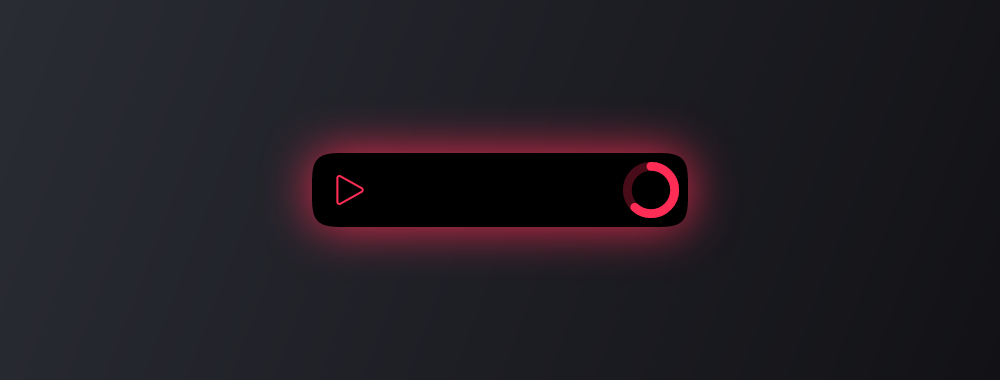
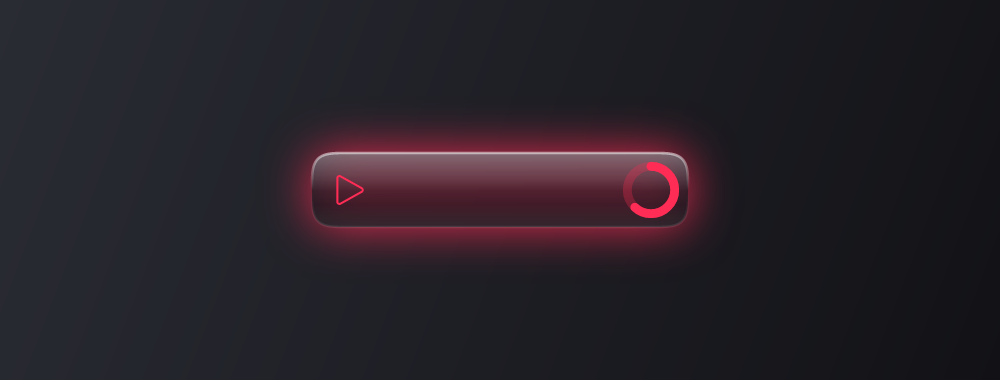
Add a Liquid Glass material to the island
Translucent smoked panel with a specular top sheen, a bottom reflection and an
edge rim-light (bright top, faint bottom), on top of the activity glow. Toggle via
Glass.Enabled in config. Refresh screenshots and the showcase to the glass look.

Changed region(s): [[0.31, 0.3763, 0.713, 0.6079]]

diff --git a/src/Islet/Rendering/GlassMaterial.cs b/src/Islet/Rendering/GlassMaterial.cs
@@ -1,0 +1,64 @@
+using SkiaSharp;
+
+namespace Islet.Rendering;
+
+/// <summary>
+/// "Liquid Glass" island body: a translucent smoked panel (lets the desktop/content show through),
+/// a specular sheen along the top, a faint reflection at the bottom, and an edge rim-light that is
+/// bright at the top and faint below. Grounded in Apple's regular-glass look while staying legible.
+/// </summary>
+internal static class GlassMaterial
+{
+    public static void Draw(SKCanvas canvas, SKPath body, SKRect bounds, RenderModel m)
+    {
+        float scale = m.Scale;
+        float top = bounds.Top, bot = bounds.Bottom;
+        var tintTop = new SKColor(m.GlassTintTop);
+        var tintBottom = new SKColor(m.GlassTintBottom);
+
+        // 1) Translucent tinted fill (vertical gradient top -> bottom).
+        using (var fill = new SKPaint
+        {
+            IsAntialias = true,
+            Shader = SKShader.CreateLinearGradient(new SKPoint(0, top), new SKPoint(0, bot),
+                new[] { tintTop, tintBottom }, null, SKShaderTileMode.Clamp),
+        })
+            canvas.DrawPath(body, fill);
+
+        // Inner sheen + reflection, clipped to the shape. Rect is widened so the Minimal blob is covered.
+        int save = canvas.Save();
+        canvas.ClipPath(body, antialias: true);
+        var wide = new SKRect(bounds.Left - 180, top, bounds.Right + 180, bot);
+
+        byte sheenA = (byte)(96 * m.GlassHighlight);
+        float sheenBottom = top + bounds.Height * 0.52f;
+        using (var sheen = new SKPaint
+        {
+            Shader = SKShader.CreateLinearGradient(new SKPoint(0, top), new SKPoint(0, sheenBottom),
+                new[] { SKColors.White.WithAlpha(sheenA), SKColors.White.WithAlpha(0) }, null, SKShaderTileMode.Clamp),
+        })
+            canvas.DrawRect(wide, sheen);
+
+        byte reflA = (byte)(30 * m.GlassHighlight);
+        using (var refl = new SKPaint
+        {
+            Shader = SKShader.CreateLinearGradient(new SKPoint(0, bot - bounds.Height * 0.32f), new SKPoint(0, bot),
+                new[] { SKColors.White.WithAlpha(0), SKColors.White.WithAlpha(reflA) }, null, SKShaderTileMode.Clamp),
+        })
+            canvas.DrawRect(wide, refl);
+        canvas.RestoreToCount(save);
+
+        // 2) Edge rim light: bright at the top, invisible mid, faint reflected at the bottom.
+        byte rimTop = (byte)(150 * m.GlassRim), rimBot = (byte)(28 * m.GlassRim);
+        using (var rim = new SKPaint
+        {
+            IsAntialias = true,
+            Style = SKPaintStyle.Stroke,
+            StrokeWidth = 1.3f * scale,
+            Shader = SKShader.CreateLinearGradient(new SKPoint(0, top), new SKPoint(0, bot),
+                new[] { SKColors.White.WithAlpha(rimTop), SKColors.White.WithAlpha(0), SKColors.White.WithAlpha(rimBot) },
+                new[] { 0f, 0.5f, 1f }, SKShaderTileMode.Clamp),
+        })
+            canvas.DrawPath(body, rim);
+    }
+}

diff --git a/src/Islet.Core/Config/IsletConfig.cs b/src/Islet.Core/Config/IsletConfig.cs
@@ -14,6 +14,7 @@ public sealed class IsletConfig
     public TimingConfig Timings { get; set; } = new();
     public BehaviorConfig Behavior { get; set; } = new();
     public ColorConfig Colors { get; set; } = new();
+    public GlassConfig Glass { get; set; } = new();
 
     /// <summary>Base (content-independent) target metrics for a mode.</summary>
     public IslandMetrics BaseMetrics(IslandMode mode) => mode switch
@@ -85,4 +86,18 @@ public sealed class ColorConfig
     public string GlowDefault { get; set; } = "#5AC8FA";  // soft activity glow
     public string AskGlow { get; set; } = "#8E8CFF";      // Ask-mode border/caret glow
     public string Accent { get; set; } = "#FFFFFF";
+}
+
+/// <summary>
+/// "Liquid Glass" material for the island: a translucent smoked panel (content/desktop shows through),
+/// a specular top sheen, and an edge rim light — brighter at the top, faint reflection at the bottom.
+/// Colors are 8-digit AARRGGBB. Disable to fall back to the solid-black pill.
+/// </summary>
+public sealed class GlassConfig
+{
+    public bool Enabled { get; set; } = true;
+    public string TintTop { get; set; } = "#962E3038";    // translucent, lighter top
+    public string TintBottom { get; set; } = "#D20C0D12";  // more opaque, darker bottom (legibility + depth)
+    public double Highlight { get; set; } = 0.8;           // top specular sheen strength 0..1
+    public double Rim { get; set; } = 0.9;                 // edge rim-light strength 0..1
 }

diff --git a/src/Islet/Rendering/IslandRenderer.cs b/src/Islet/Rendering/IslandRenderer.cs
@@ -34,14 +34,21 @@ internal sealed class IslandRenderer
             canvas.DrawPath(body, glowPaint);
         }
 
-        // --- Black body ---
-        using (var bodyPaint = new SKPaint { IsAntialias = true, Color = new SKColor(0, 0, 0, 255), Style = SKPaintStyle.Fill })
+        // --- Island body: Liquid Glass material, or solid black if disabled ---
+        var bounds = new SKRect(cx - w / 2f, cy - h / 2f, cx + w / 2f, cy + h / 2f);
+        if (m.GlassEnabled)
+        {
+            GlassMaterial.Draw(canvas, body, bounds, m);
+        }
+        else
+        {
+            using var bodyPaint = new SKPaint { IsAntialias = true, Color = new SKColor(0, 0, 0, 255), Style = SKPaintStyle.Fill };
             canvas.DrawPath(body, bodyPaint);
+        }
 
         // --- Content, clipped to the island shape ---
         int save = canvas.Save();
         canvas.ClipPath(body, SKClipOperation.Intersect, antialias: true);
-        var bounds = new SKRect(cx - w / 2f, cy - h / 2f, cx + w / 2f, cy + h / 2f);
         ContentRenderer.Draw(canvas, m, bounds);
         canvas.RestoreToCount(save);
 

diff --git a/src/Islet/IslandController.cs b/src/Islet/IslandController.cs
@@ -165,6 +165,12 @@ internal sealed class IslandController
         bool quiet = m.Mode is IslandMode.Idle && !_hasCur && !_hasOut;
         m.GlowStrength = quiet ? 0.22f : (float)_cfg.Layout.GlowStrength;
 
+        m.GlassEnabled = _cfg.Glass.Enabled;
+        m.GlassTintTop = ParseArgb(_cfg.Glass.TintTop);
+        m.GlassTintBottom = ParseArgb(_cfg.Glass.TintBottom);
+        m.GlassHighlight = (float)_cfg.Glass.Highlight;
+        m.GlassRim = (float)_cfg.Glass.Rim;
+
         m.AskActive = _ask;
         m.AskText = _askText;
         m.AskGlowArgb = ParseArgb(_cfg.Colors.AskGlow);

diff --git a/src/Islet/Rendering/RenderModel.cs b/src/Islet/Rendering/RenderModel.cs
@@ -19,6 +19,13 @@ internal sealed class RenderModel
     public float GlowRadiusPx = 20f;
     public float GlowStrength = 0.9f;
 
+    // Liquid Glass material
+    public bool GlassEnabled = true;
+    public uint GlassTintTop = 0x962E3038;
+    public uint GlassTintBottom = 0xD20C0D12;
+    public float GlassHighlight = 0.8f;
+    public float GlassRim = 0.9f;
+
     // Minimal-state detached blob (gooey). 0 = merged, 1 = fully separated.
     public float MinimalSeparation;
     public float MinimalBlobDp;
